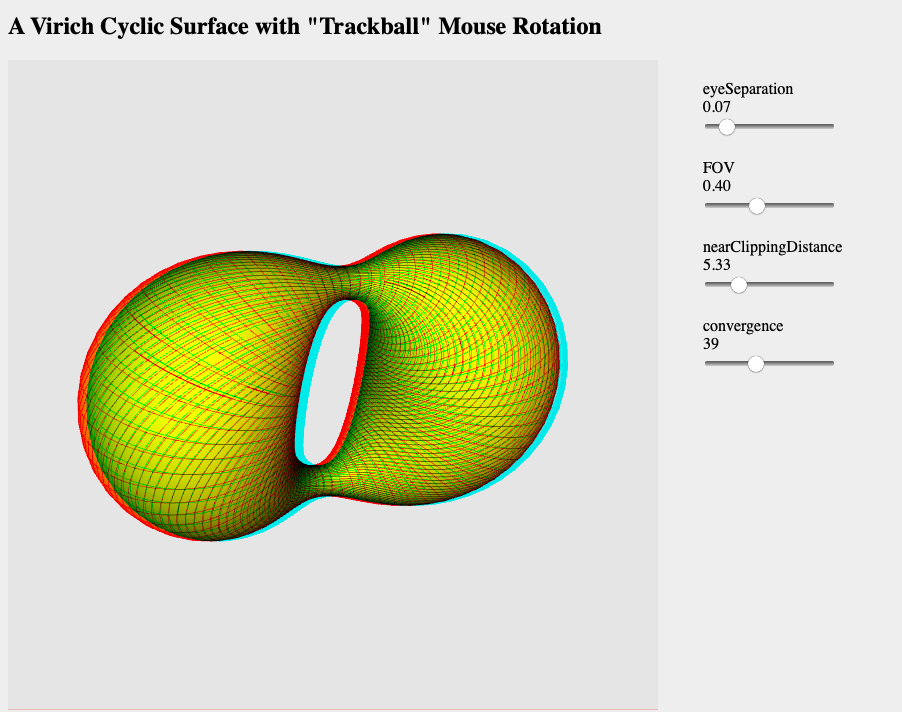
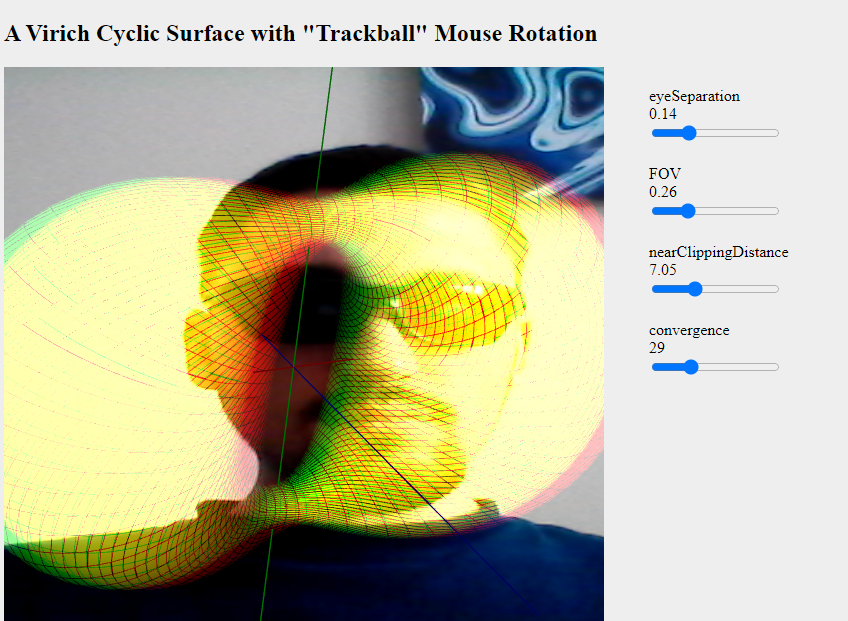
Adding camera video background

diff --git a/index.html b/index.html
@@ -40,7 +40,7 @@
 
 
 <div id="canvas-holder">
-   <canvas width="650" height="650" id="webglcanvas" style="background-color:red"></canvas>
+   <canvas width="600" height="600" id="webglcanvas"></canvas>
    <div id="checkboxs">
 		<div id="box">
 			<div id="eyeSeparation"></div>
